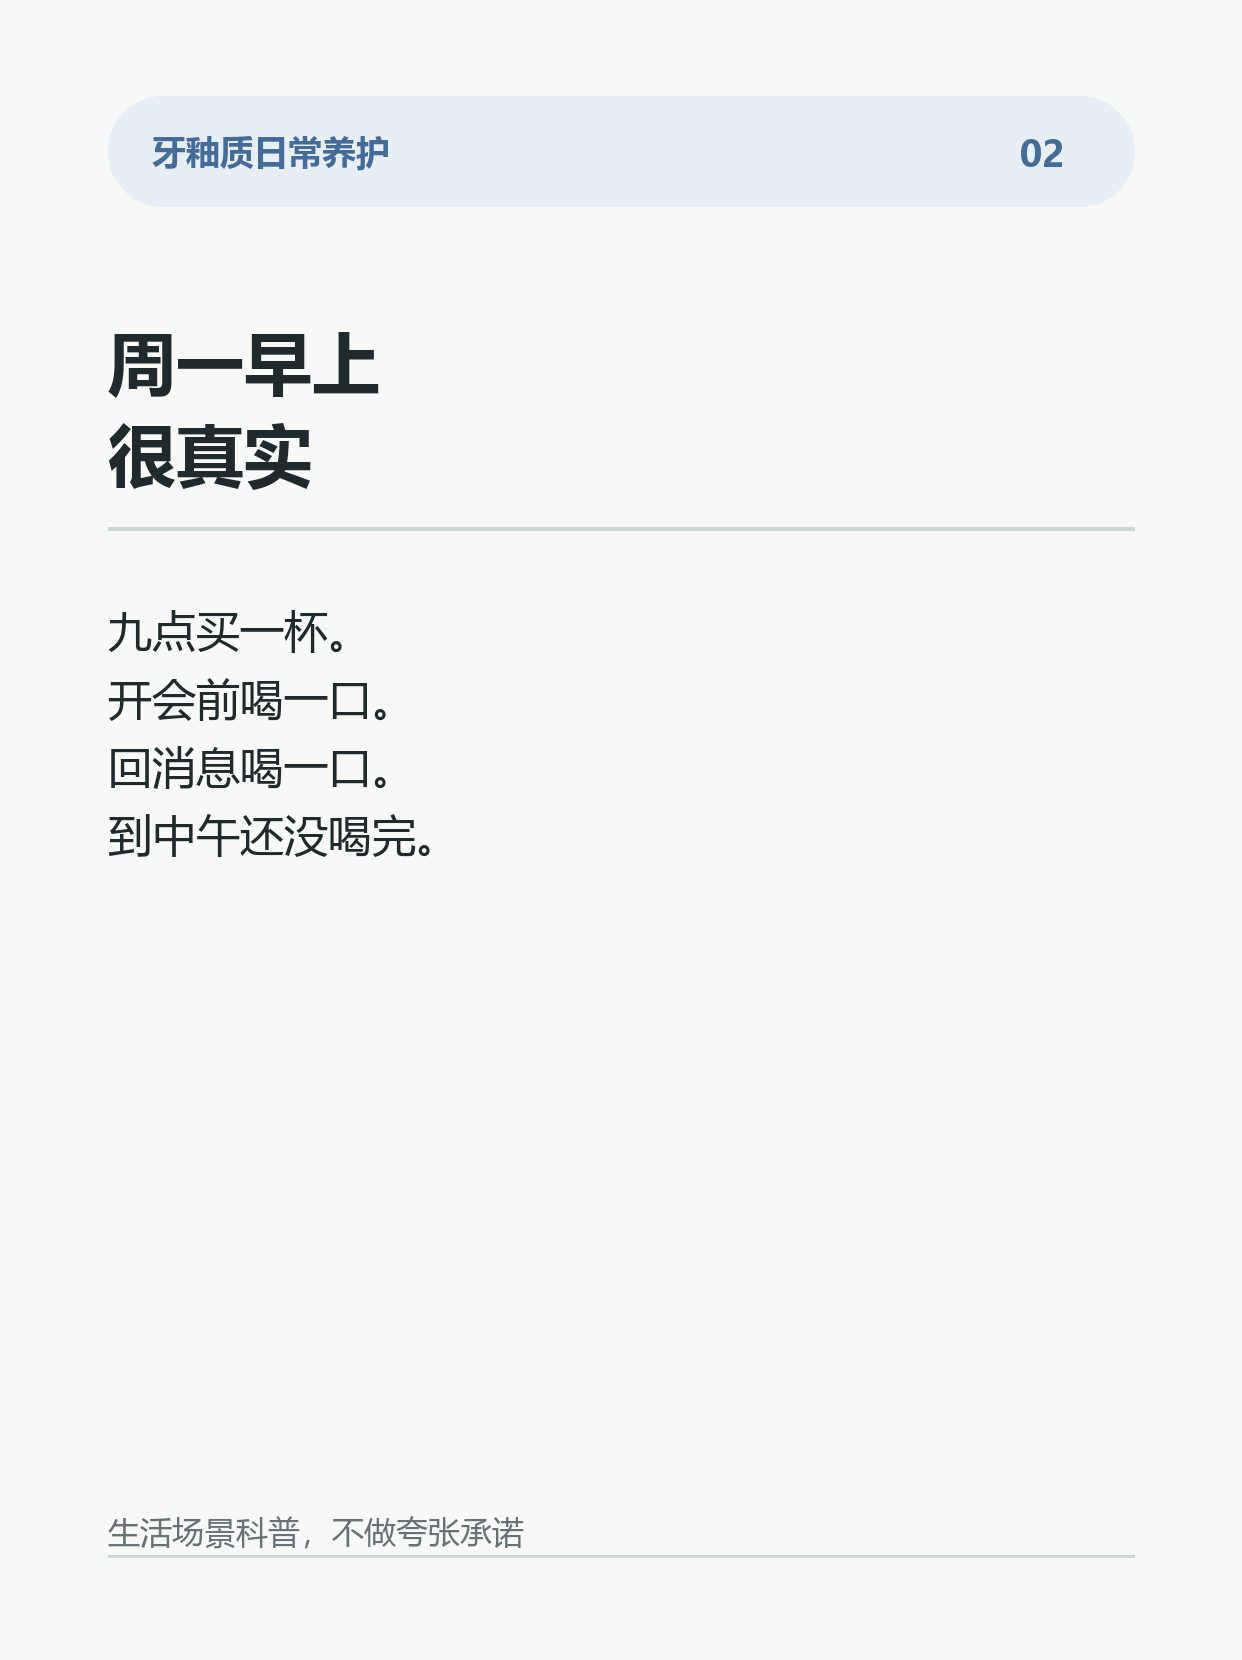
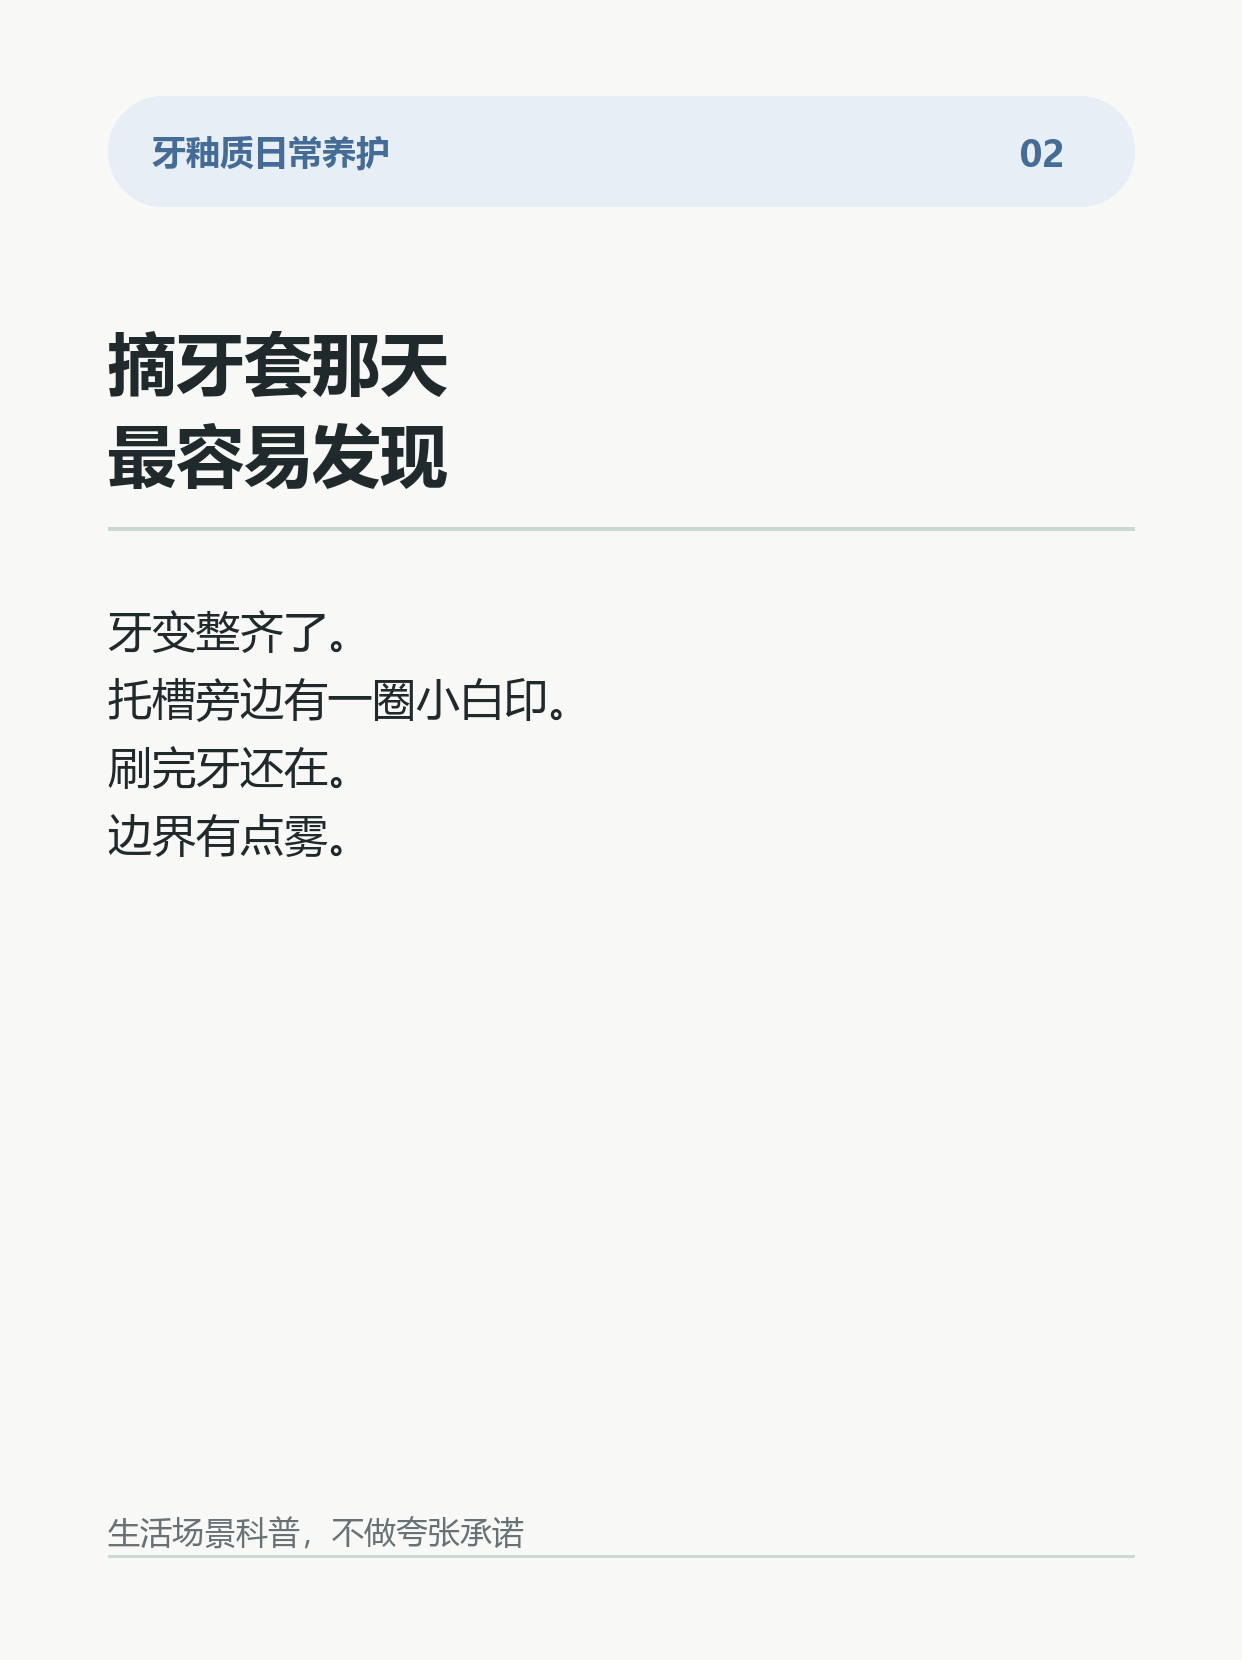
Revise 2026-06-22 XHS topic to orthodontic white spots

Changed region(s): [[0.0918, 0.3687, 0.4589, 0.5223], [0.0918, 0.1843, 0.3671, 0.3072]]

diff --git a/2026-06-22/index.html b/2026-06-22/index.html
@@ -1,1 +1,14 @@
-<!doctype html><html lang="zh-CN"><head><meta charset="utf-8"><meta name="viewport" content="width=device-width,initial-scale=1"><title>周一冰美式，别从早喝到午</title><style>body{margin:0;background:#f6f7f4;color:#202a2d;font-family:"Microsoft YaHei",Arial,sans-serif}main{width:min(960px,calc(100vw - 32px));margin:28px auto 48px}section{background:#fff;border:1px solid #dbe3df;border-radius:8px;padding:24px;margin-bottom:18px}h1{margin:0 0 8px;font-size:28px}p{line-height:1.75}.cards{display:grid;grid-template-columns:repeat(4,1fr);gap:12px}img{width:100%;border:1px solid #dbe3df;border-radius:6px}@media(max-width:760px){.cards{grid-template-columns:repeat(2,1fr)}}</style></head><body><main><section><h1>周一冰美式，别从早喝到午</h1><p>周一早上，很多人靠一杯冰美式开机。</p><p>问题不是喝咖啡。</p><p>更容易被忽略的是：</p><p>从早上九点喝到中午，开会前一口，回消息一口，路过工位又一口。</p><p>牙面真正不喜欢的，往往不是“喝了一杯”，而是一直有味道停在嘴里。</p><p>如果还加了糖浆、奶精、风味糖浆，牙面更容易发涩、不清爽。</p><p>更稳的做法：</p><p>1. 咖啡尽量集中喝，别拖半天。</p><p>2. 喝完补几口清水。</p><p>3. 加糖的咖啡别当日常水。</p><p>4. 晚上认真刷牙，动作轻一点。</p><p>打工人可以需要咖啡。</p><p>牙面也需要中间休息一下。</p><p>你今天这杯，是一口气喝完，还是从早喝到午？</p><p>#牙釉质 #护牙日常 #冰美式 #咖啡 #打工人 #刷牙习惯 #牙齿敏感 #生活小习惯</p></section><section class="cards"><img src="cards/card_01.png" alt="card 1"><img src="cards/card_02.png" alt="card 2"><img src="cards/card_03.png" alt="card 3"><img src="cards/card_04.png" alt="card 4"><img src="cards/card_05.png" alt="card 5"><img src="cards/card_06.png" alt="card 6"><img src="cards/card_07.png" alt="card 7"><img src="cards/card_08.png" alt="card 8"></section></main></body></html>
+<!doctype html>
+<html lang="zh-CN"><head><meta charset="utf-8"><meta name="viewport" content="width=device-width,initial-scale=1">
+<title>摘牙套后的小白印，不是变白了</title><style>
+body{margin:0;background:#f6f7f4;color:#202a2d;font-family:"Microsoft YaHei",Arial,sans-serif}
+main{width:min(960px,calc(100vw - 32px));margin:28px auto 48px}
+section{background:#fff;border:1px solid #dbe3df;border-radius:8px;padding:24px;margin-bottom:18px}
+h1{margin:0 0 8px;font-size:28px}p{line-height:1.75}
+.cards{display:grid;grid-template-columns:repeat(4,1fr);gap:12px}img{width:100%;border:1px solid #dbe3df;border-radius:6px}
+@media(max-width:760px){.cards{grid-template-columns:repeat(2,1fr)}}
+</style></head><body><main><section><h1>摘牙套后的小白印，不是变白了</h1>
+<p>很多人以为，摘牙套后牙面上那圈小白印，是“牙变白了”。</p><p>其实不一定。</p><p>如果白印出现在托槽周围、边界有点雾、刷完牙也还在，更常见的解释是：那一小块牙面曾经长期更难刷干净，矿物状态变得不稳定。</p><p>这就是正畸人群很容易忽略的牙面信号。</p><p>为什么牙套旁边更容易出现？</p><p>托槽、钢丝、附件会让食物残留和软垢更容易停住。</p><p>如果清洁不到位，局部酸性环境出现得更频繁，牙釉质里的矿物更容易被带走，表面看起来就会发白、发雾。</p><p>误区是：</p><p>不是牙越刷越白。</p><p>也不是所有白印都能靠猛刷变淡。</p><p>更稳的日常做法：</p><p>1. 正畸期间重点刷托槽边缘和牙龈边缘。</p><p>2. 牙缝刷、冲牙器可以辅助，但不能替代刷牙。</p><p>3. 含氟牙膏是基础护理的一部分。</p><p>4. 发现固定白印，建议做一次口腔检查，先判断牙面状态。</p><p>这类内容不适合夸张承诺。</p><p>能做的是：早点发现，日常护理更细一点，让牙面状态更稳定。</p><p>你身边有没有人摘牙套后发现小白印？</p><p>#牙釉质 #正畸 #牙套 #白斑 #护牙日常 #含氟牙膏 #刷牙习惯 #牙齿敏感</p>
+</section><section class="cards">
+<img src="cards/card_01.png" alt="card 1"><img src="cards/card_02.png" alt="card 2"><img src="cards/card_03.png" alt="card 3"><img src="cards/card_04.png" alt="card 4"><img src="cards/card_05.png" alt="card 5"><img src="cards/card_06.png" alt="card 6"><img src="cards/card_07.png" alt="card 7"><img src="cards/card_08.png" alt="card 8">
+</section></main></body></html>
